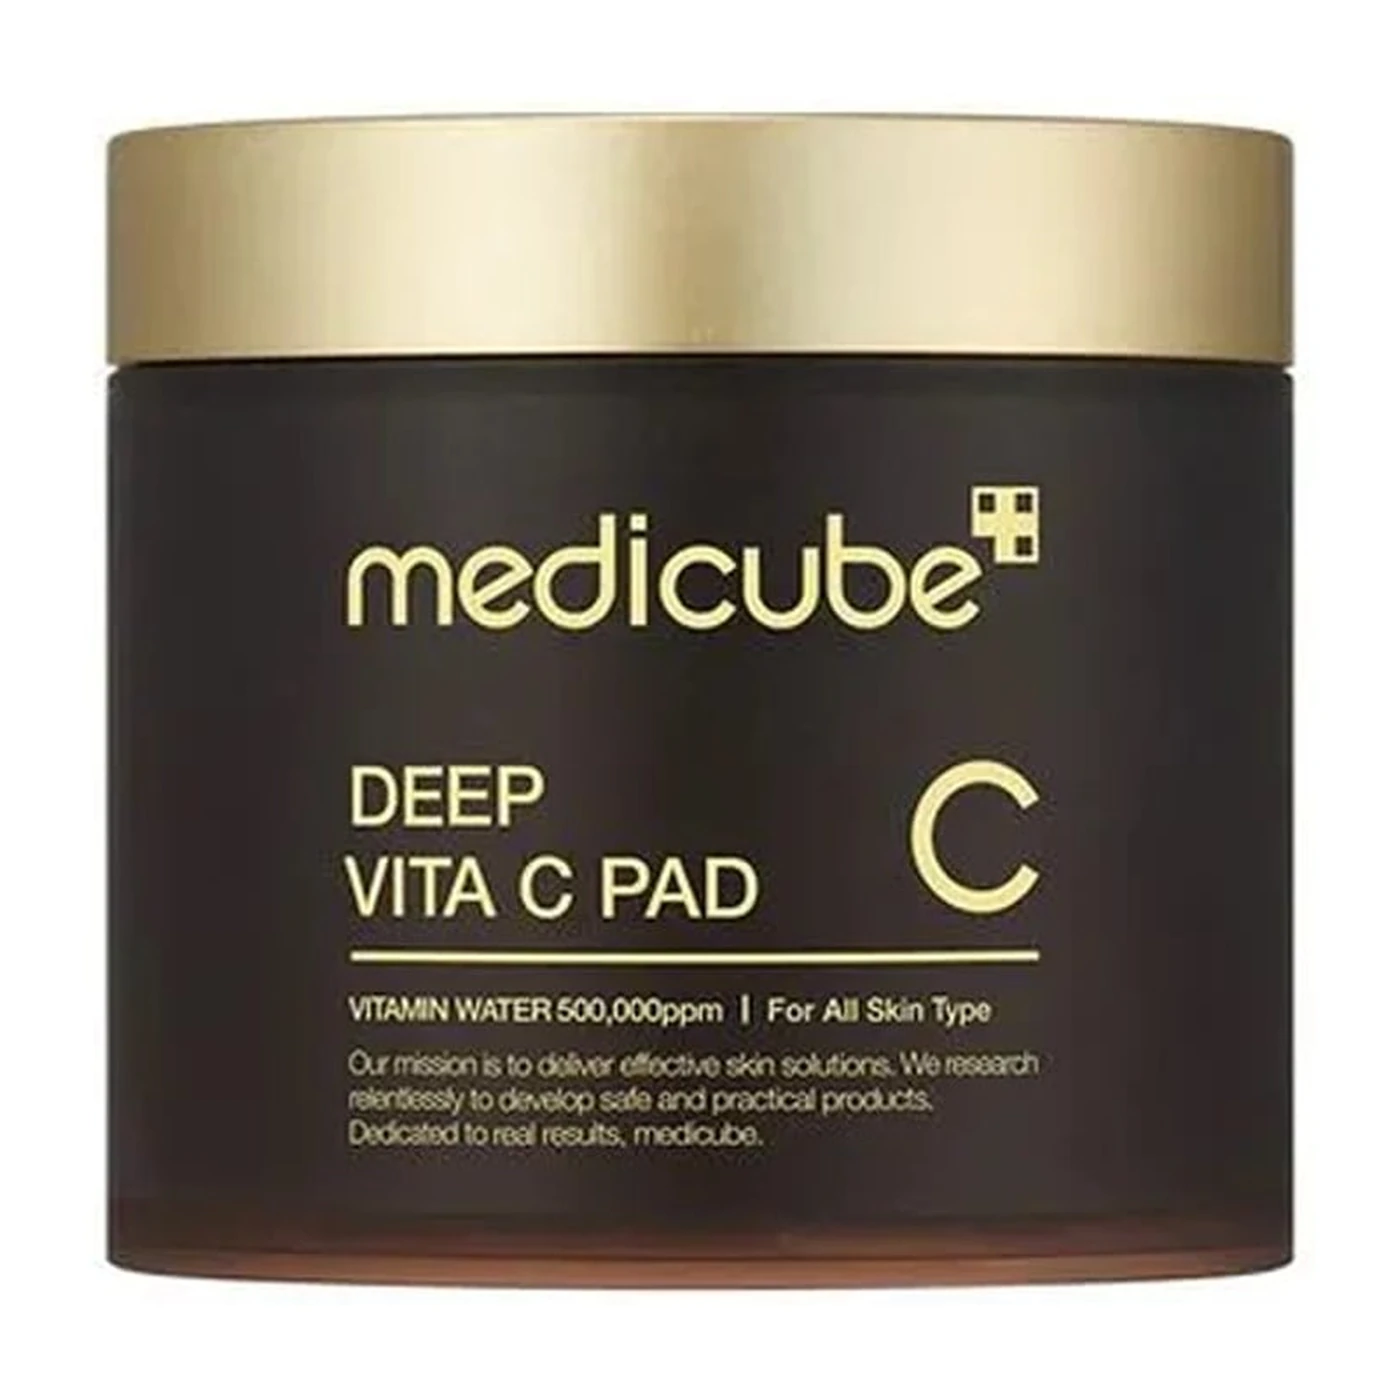
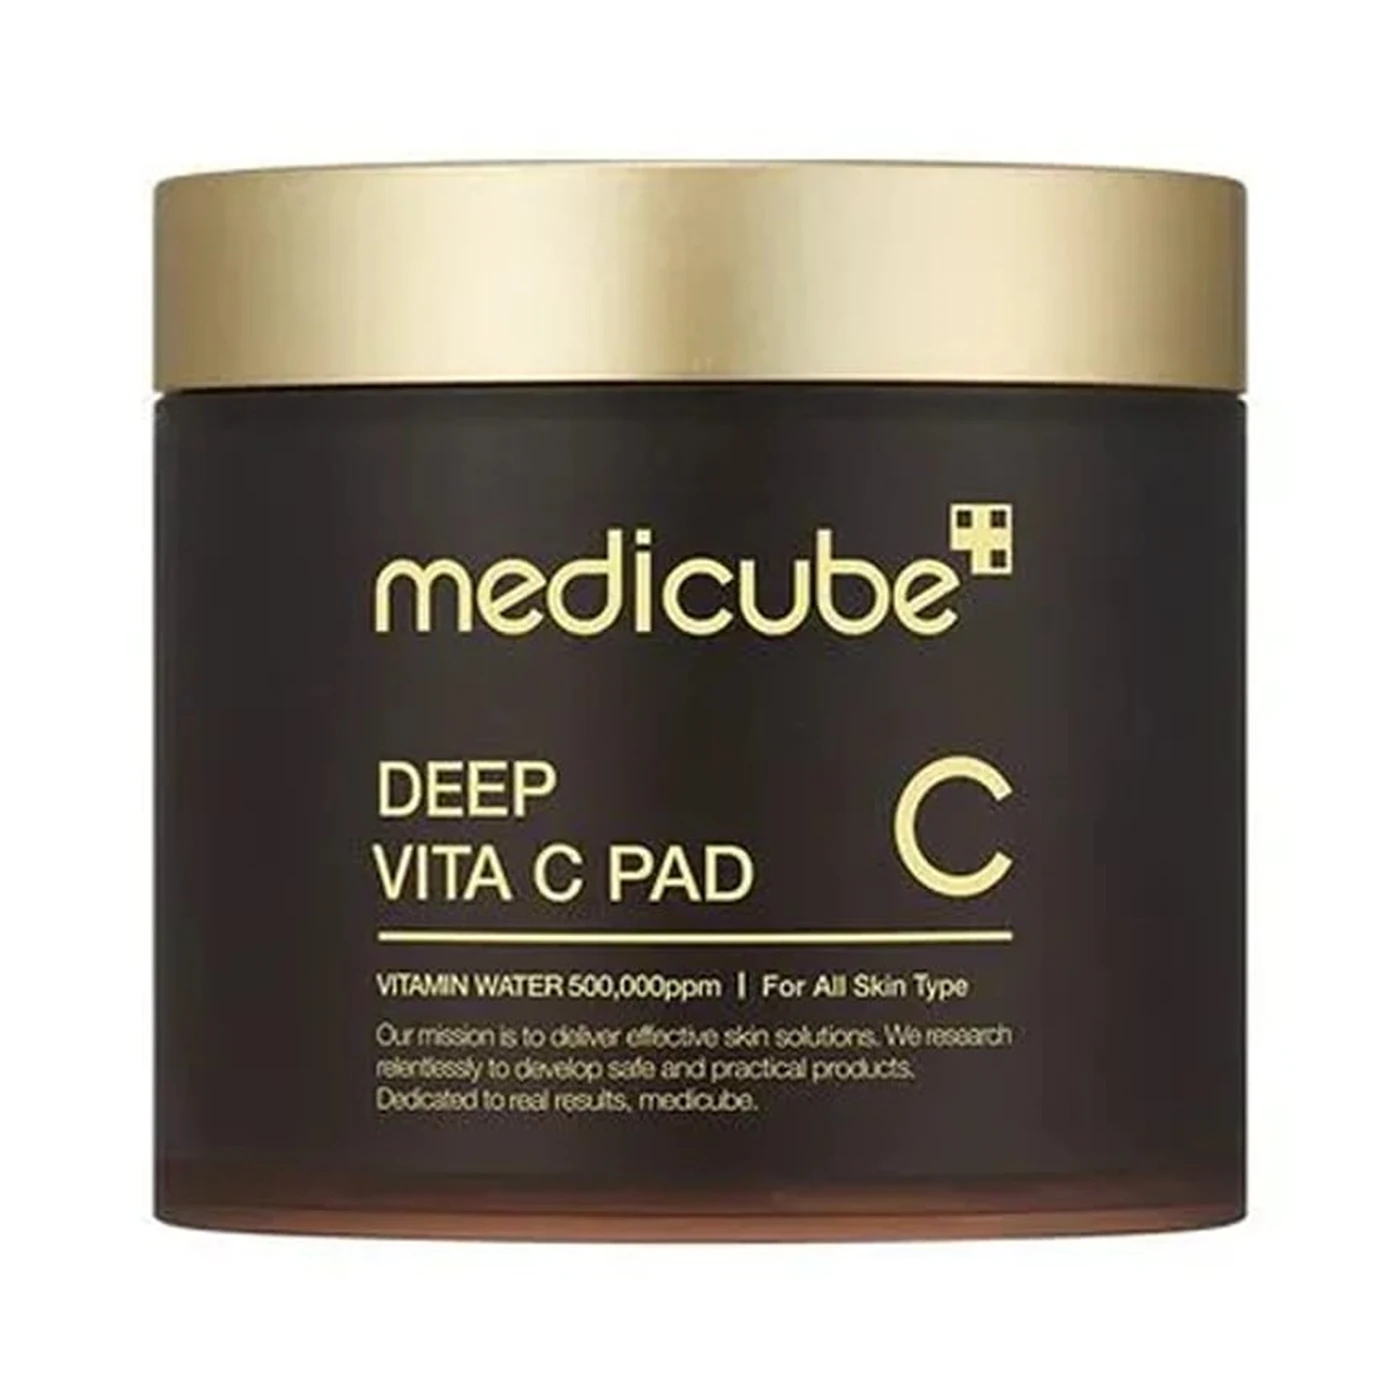
Replace two first photos with barcode packshots on white.
Medicube pads and SKIN1004 ampoule now show the product alone on white.

Changed region(s): [[0.0614, 0.0614, 0.9521, 0.9214], [0.2457, 0.3379, 0.7679, 0.4607]]

diff --git a/index.html b/index.html
@@ -50,8 +50,8 @@
 <meta name="application-name" content="نقاء | Naqa" />
 
 <title>نقاء · عناية ومكياج | Naqa Oman</title>
-<link rel="preload" href="css/store.min.css?v=20261127bc" as="style" />
-<link rel="stylesheet" href="css/store.min.css?v=20261127bc" />
+<link rel="preload" href="css/store.min.css?v=20261127pack1" as="style" />
+<link rel="stylesheet" href="css/store.min.css?v=20261127pack1" />
 <link rel="preload" href="media/catalogs/hot.webp" as="image" type="image/webp" fetchpriority="high" />
 
 
@@ -377,15 +377,15 @@
     </div>
   </div>
 </div>
-<script defer src="data/products.min.js?v=20261127bc"></script>
+<script defer src="data/products.min.js?v=20261127pack1"></script>
 
-<script defer src="js/firebase-config.js?v=20261127bc"></script>
+<script defer src="js/firebase-config.js?v=20261127pack1"></script>
 <script defer src="https://www.gstatic.com/firebasejs/10.14.1/firebase-app-compat.js"></script>
 <script defer src="https://www.gstatic.com/firebasejs/10.14.1/firebase-firestore-compat.js"></script>
-<script defer src="js/cloud-overrides.js?v=20261127bc"></script>
-<script defer src="js/store-cloud-boot.js?v=20261127bc"></script>
+<script defer src="js/cloud-overrides.js?v=20261127pack1"></script>
+<script defer src="js/store-cloud-boot.js?v=20261127pack1"></script>
 
-<script defer src="js/store.min.js?v=20261127bc"></script>
+<script defer src="js/store.min.js?v=20261127pack1"></script>
 
 <script>
 if ('serviceWorker' in navigator) {
